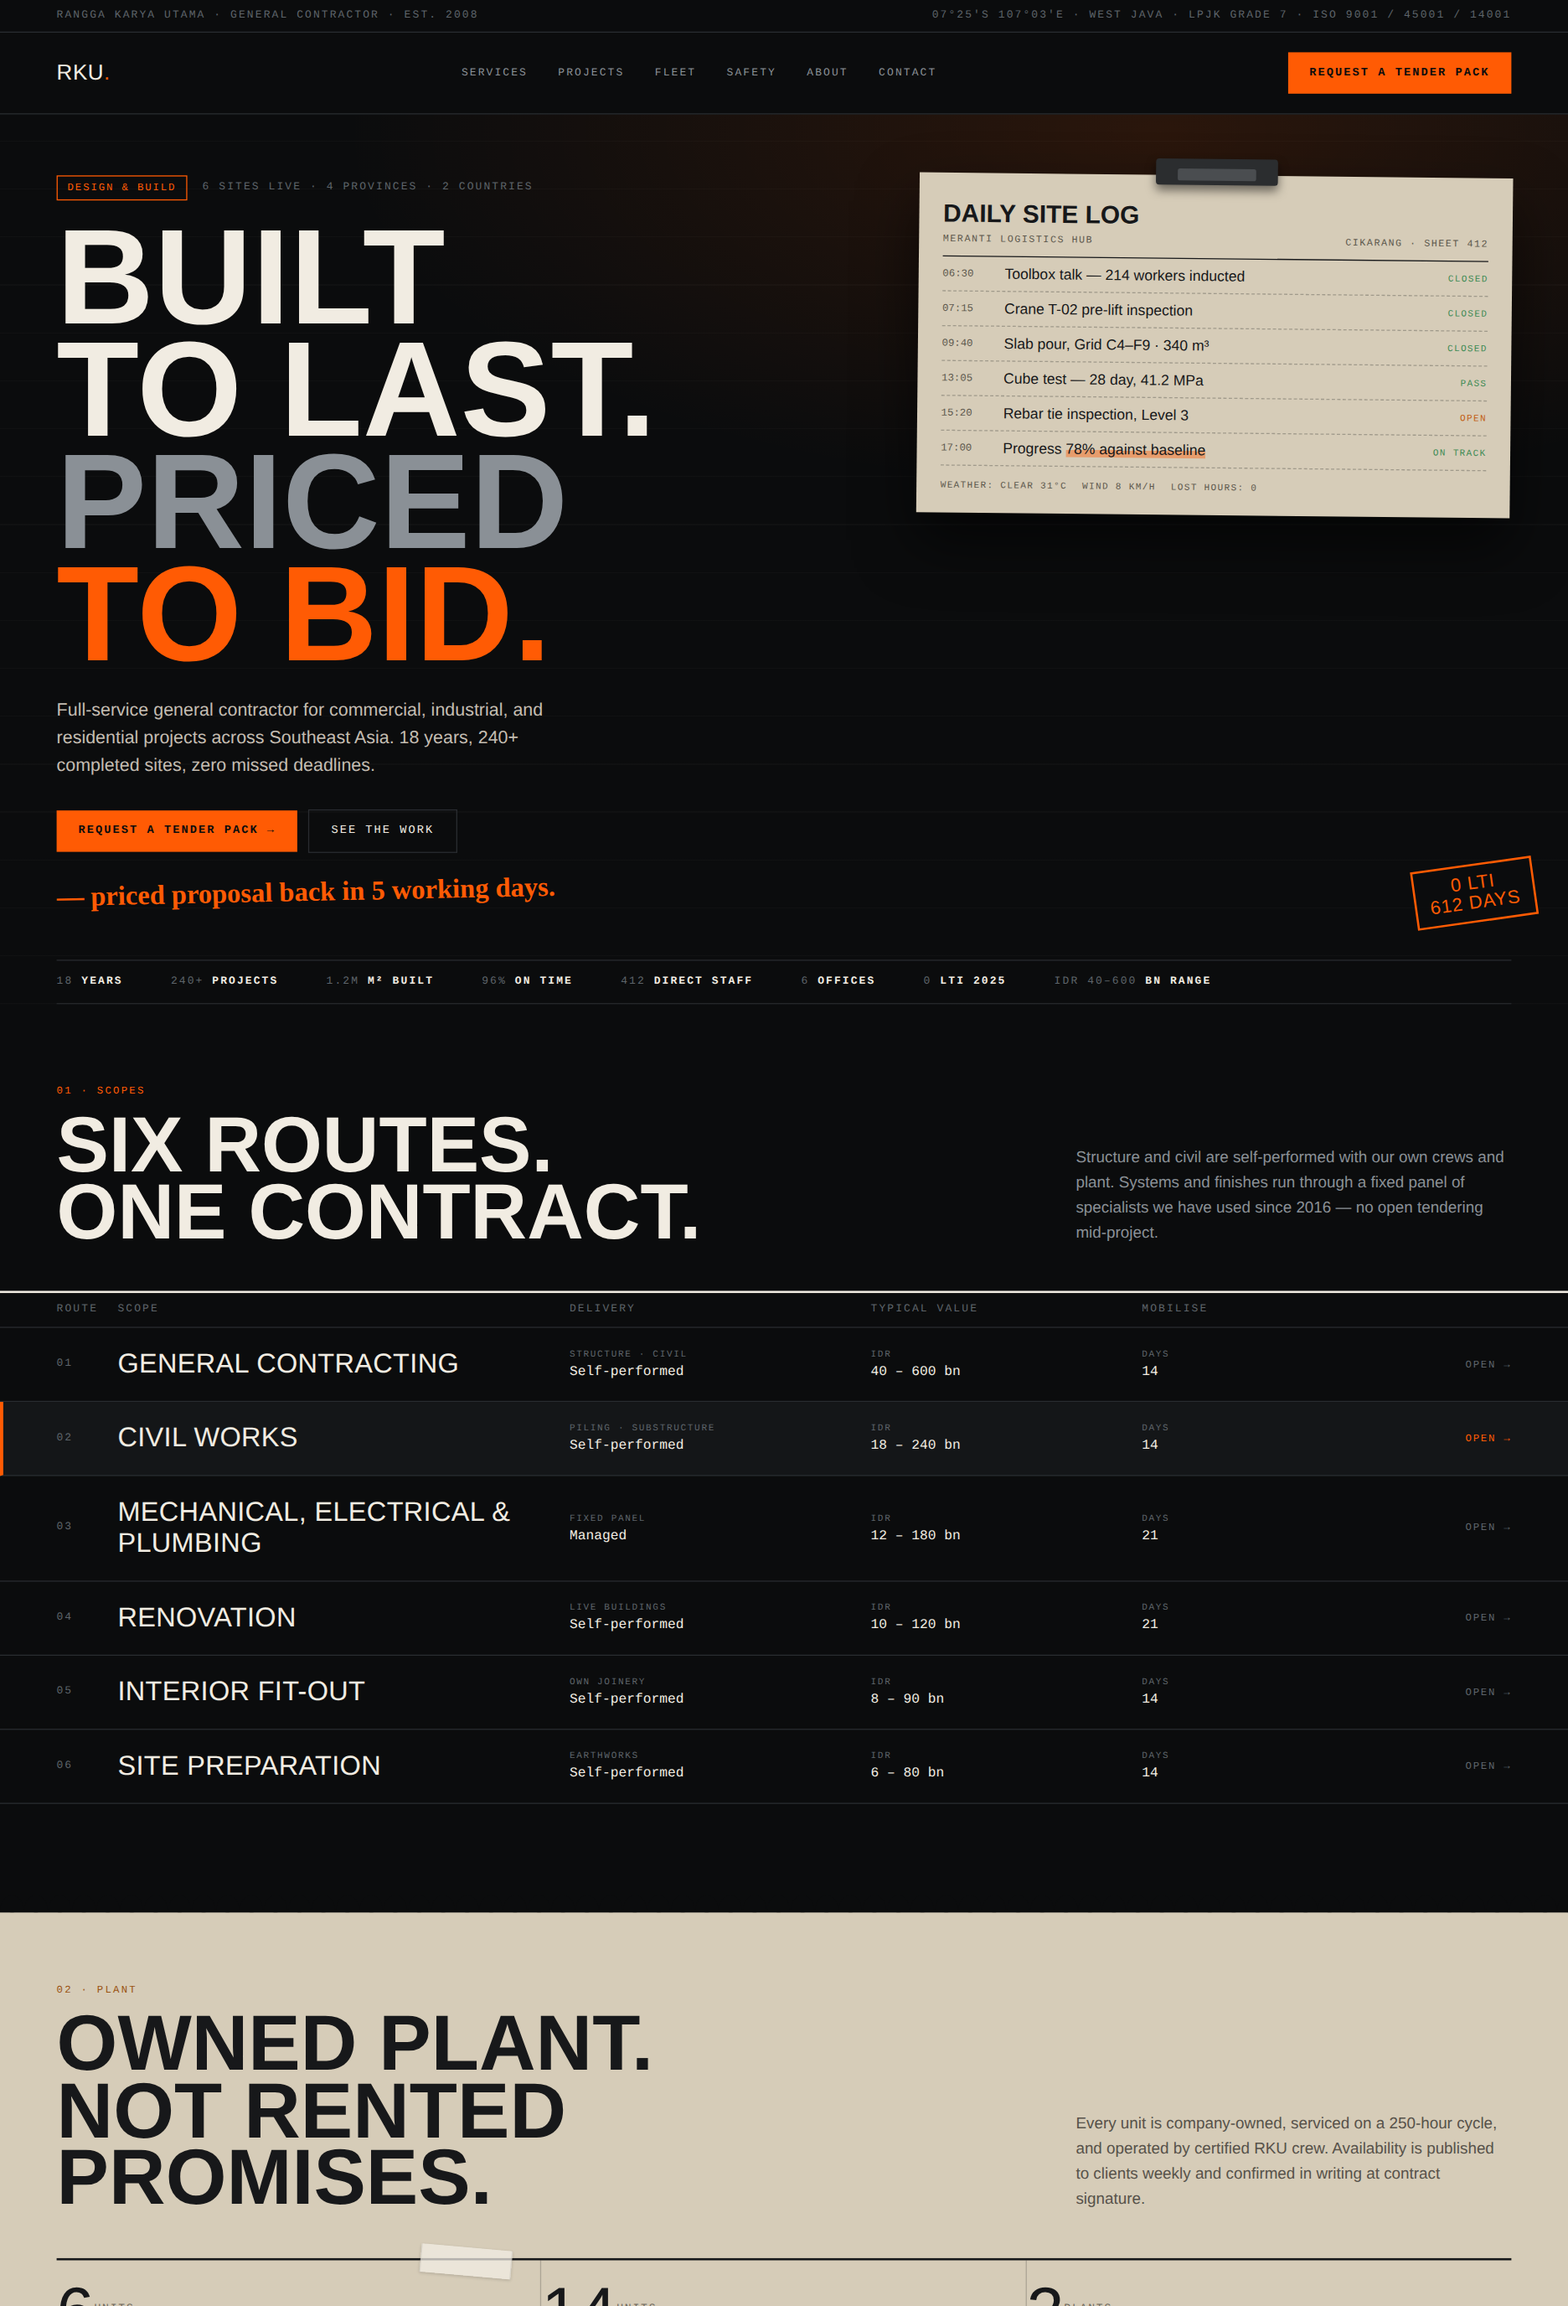
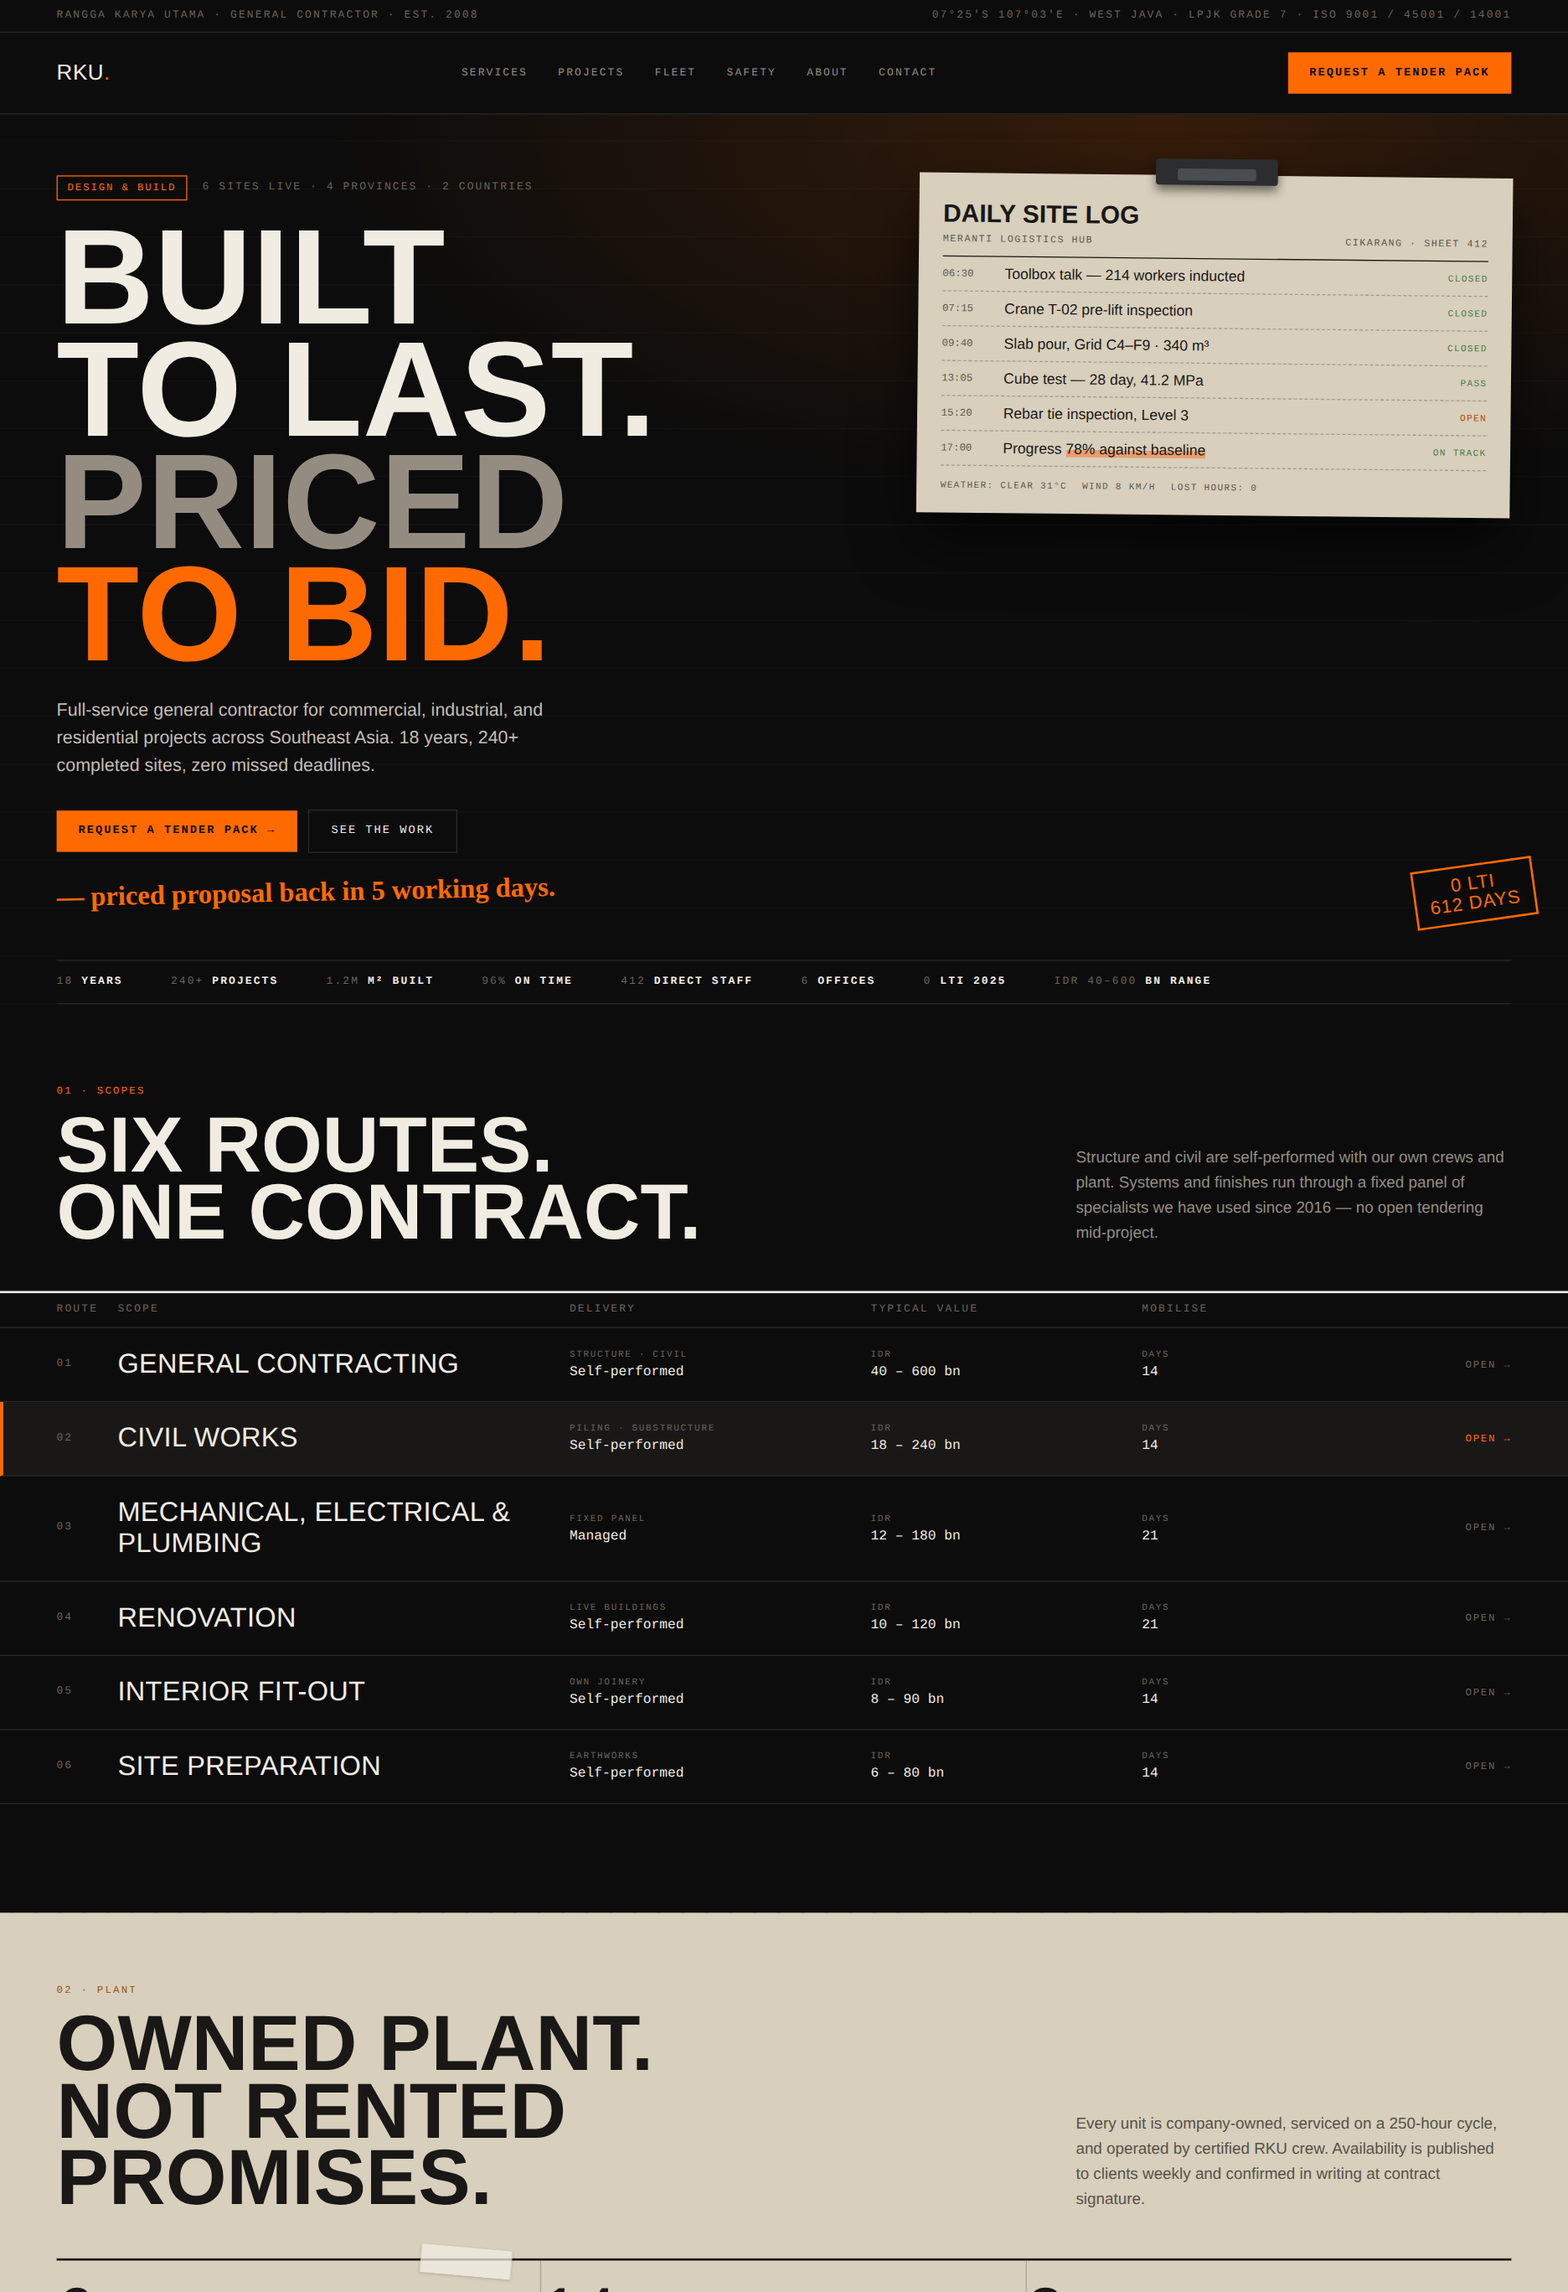
Warm palette from direction B, plus a third ground and a scoped-selector fix
- every neutral moved onto one warm scale so the dark and kraft grounds
  read as the same light source rather than two temperatures
- added a warm charcoal ground for the projects section so consecutive
  dark stretches are not identical over 6,000px
- hero ambient warmed to B's strength
- .fig span was forcing the unit inside the stat value onto its own line;
  scoped to direct children

diff --git a/design/D-home-full.html b/design/D-home-full.html
@@ -3,10 +3,11 @@
 <style>
 *{box-sizing:border-box;margin:0}
 :root{
- --ink:#0B0C0D;--panel:#141618;--panel2:#1B1E21;--line:#292C30;
- --fg:#F1ECE2;--steel:#8A9096;--dim:#5E646A;
- --kraft:#D6CCB8;--kraft2:#C7BCA4;--kink:#17181A;
- --hi:#FF5B04;--ok:#3F8B55;--warn:#C25E12;
+ /* warm scale — one light source across every ground */
+ --ink:#0C0C0C;--char:#151312;--panel:#191817;--panel2:#211F1C;--line:#2C2A26;
+ --fg:#F1ECE2;--steel:#948C81;--dim:#6A635A;
+ --kraft:#D8CFBC;--kraft2:#C9BFA8;--kink:#191817;
+ --hi:#FF6A00;--ok:#4A7C42;--warn:#B24A00;
 }
 body{width:1440px;background:var(--ink);color:var(--fg);font-family:Archivo,sans-serif;overflow-x:hidden}
 .m{font-family:"JetBrains Mono",monospace;font-size:10px;letter-spacing:.16em;text-transform:uppercase}
@@ -28,14 +29,14 @@ section{position:relative}
 .brand{font-family:Anton,sans-serif;font-size:20px;text-transform:uppercase;letter-spacing:.02em}
 .brand i{font-style:normal;color:var(--hi)}
 .nav ul{display:flex;gap:28px;list-style:none;padding:0;color:var(--steel)}
-.btn{display:inline-block;background:var(--hi);color:#0B0C0D;font-family:"JetBrains Mono",monospace;font-weight:700;font-size:10.5px;letter-spacing:.15em;text-transform:uppercase;padding:13px 20px}
+.btn{display:inline-block;background:var(--hi);color:#0C0C0C;font-family:"JetBrains Mono",monospace;font-weight:700;font-size:10.5px;letter-spacing:.15em;text-transform:uppercase;padding:13px 20px}
 .btn.o{background:transparent;color:var(--fg);border:1px solid var(--line);font-weight:500}
 .btn.k{background:var(--kink);color:var(--kraft)}
 
 /* ---------- hero ---------- */
 .hero{padding:56px 52px 0;overflow:hidden}
 .hero::before{content:"";position:absolute;inset:0;pointer-events:none;
- background:radial-gradient(90% 70% at 74% 2%,rgba(255,91,4,.13),transparent 58%),
+ background:radial-gradient(92% 72% at 74% 2%,rgba(255,106,0,.17),transparent 58%),
  repeating-linear-gradient(0deg,rgba(241,236,226,.024) 0 1px,transparent 1px 44px)}
 .hgrid{position:relative;display:grid;grid-template-columns:1fr 545px;gap:52px}
 .tagrow{display:flex;gap:14px;align-items:center;margin-bottom:20px}
@@ -58,7 +59,7 @@ h1 .g{color:var(--steel)}
 .lrow .s.w{color:var(--warn)}
 .mark{background:linear-gradient(transparent 56%,rgba(255,91,4,.42) 56%)}
 .docfoot{display:flex;gap:14px;margin-top:13px;font-family:"JetBrains Mono",monospace;font-size:8.5px;letter-spacing:.12em;text-transform:uppercase;color:#5D584D}
-.stamp{position:absolute;border:2.5px solid var(--hi);color:var(--hi);font-family:Anton,sans-serif;text-transform:uppercase;letter-spacing:.04em;padding:7px 12px;transform:rotate(-8deg);line-height:1.05;text-align:center;background:rgba(11,12,13,.82)}
+.stamp{position:absolute;border:2.5px solid var(--hi);color:var(--hi);font-family:Anton,sans-serif;text-transform:uppercase;letter-spacing:.04em;padding:7px 12px;transform:rotate(-8deg);line-height:1.05;text-align:center;background:rgba(12,12,12,.84)}
 
 /* ticker */
 .ticker{margin-top:50px;border-top:1px solid var(--line);border-bottom:1px solid var(--line);display:flex;gap:44px;padding:14px 0;color:var(--dim);white-space:nowrap}
@@ -108,8 +109,8 @@ h1 .g{color:var(--steel)}
 .fig{padding:24px 22px 24px 0;border-right:1px solid var(--line)}
 .fig:last-child{border-right:0}
 .fig b{display:block;font-family:Anton,sans-serif;font-size:66px;line-height:.85;white-space:nowrap}
-.fig span{display:block;margin-top:10px;font-family:"JetBrains Mono",monospace;font-size:9px;letter-spacing:.16em;text-transform:uppercase;color:var(--steel)}
-.fig i{display:block;margin-top:6px;font-style:normal;font-size:12px;color:var(--dim)}
+.fig > span{display:block;margin-top:10px;font-family:"JetBrains Mono",monospace;font-size:9px;letter-spacing:.16em;text-transform:uppercase;color:var(--steel)}
+.fig > i{display:block;margin-top:6px;font-style:normal;font-size:12px;color:var(--dim)}
 .bars{margin-top:38px;display:grid;grid-template-columns:140px 1fr 74px;gap:0 20px;align-items:center}
 .bars .lb{font-family:"JetBrains Mono",monospace;font-size:9.5px;letter-spacing:.13em;text-transform:uppercase;color:var(--steel);padding:9px 0}
 .trk{height:14px;background:var(--panel2);position:relative}
@@ -132,18 +133,19 @@ h1 .g{color:var(--steel)}
 /* projects */
 .projs{display:grid;grid-template-columns:1.5fr 1fr;gap:20px;margin-top:40px}
 .pcard{position:relative;border:1px solid var(--line);background:var(--panel);overflow:hidden}
-.pimg{height:330px;background:#0E1114;position:relative;overflow:hidden}
+.sec[style*="--char"]{background:var(--char)}
+.pimg{height:330px;background:#100F0E;position:relative;overflow:hidden}
 .pimg::before{content:"";position:absolute;inset:0;z-index:1;pointer-events:none;
  background-image:linear-gradient(rgba(241,236,226,.07) 1px,transparent 1px),linear-gradient(90deg,rgba(241,236,226,.07) 1px,transparent 1px);
  background-size:46px 46px}
 .pcard.sm .pimg{height:158px}
 .pimg img{width:100%;height:100%;object-fit:cover;filter:grayscale(1) invert(1) contrast(1.15) brightness(1.05);opacity:.42}
-.pimg::after{content:"";position:absolute;inset:0;z-index:2;background:linear-gradient(180deg,rgba(11,12,13,.15) 0%,transparent 34%,rgba(11,12,13,.9))}
+.pimg::after{content:"";position:absolute;inset:0;z-index:2;background:linear-gradient(180deg,rgba(12,12,12,.15) 0%,transparent 34%,rgba(21,19,18,.92))}
 .pdock{display:grid;grid-template-columns:1fr auto auto auto;gap:20px;align-items:center;padding:14px 18px;border-top:1px solid var(--line)}
 .pdock h4{font-family:Anton,sans-serif;text-transform:uppercase;font-size:21px}
 .pdock .kv{font-family:"JetBrains Mono",monospace;font-size:11px}
 .pdock .kv small{display:block;font-size:8px;letter-spacing:.15em;text-transform:uppercase;color:var(--dim);margin-bottom:3px}
-.plabel{position:absolute;z-index:3;left:14px;top:14px;font-family:"JetBrains Mono",monospace;font-size:9px;letter-spacing:.14em;text-transform:uppercase;background:var(--hi);color:#0B0C0D;padding:4px 8px}
+.plabel{position:absolute;z-index:3;left:14px;top:14px;font-family:"JetBrains Mono",monospace;font-size:9px;letter-spacing:.14em;text-transform:uppercase;background:var(--hi);color:#0C0C0C;padding:4px 8px}
 .side2{display:grid;gap:20px}
 
 /* clients */
@@ -170,7 +172,7 @@ h1 .g{color:var(--steel)}
 .docket{display:grid;grid-template-columns:1.25fr 1fr 250px;background:var(--kraft);color:var(--kink);position:relative}
 .dk{padding:34px 30px}
 .dk.mid{border-inline:2px dashed rgba(23,24,26,.35)}
-.dk.right{background:var(--hi);color:#0B0C0D;display:flex;flex-direction:column;justify-content:space-between}
+.dk.right{background:var(--hi);color:#0C0C0C;display:flex;flex-direction:column;justify-content:space-between}
 .docket h2{font-family:Anton,sans-serif;text-transform:uppercase;font-size:56px;line-height:.86}
 .field{display:grid;grid-template-columns:1fr 1fr;gap:14px 18px;margin-top:18px}
 .field div span{font-family:"JetBrains Mono",monospace;font-size:8.5px;letter-spacing:.15em;text-transform:uppercase;color:#6C6659;display:block}
@@ -280,7 +282,7 @@ h1 .g{color:var(--steel)}
     <div class="figs">
       <div class="fig"><b class="hi">0.18</b><span>LTIR 2025</span><i>Industry average 1.42</i></div>
       <div class="fig"><b>0.94</b><span>TRIR 2025</span><i>Recordable per 1M hours</i></div>
-      <div class="fig"><b>1.94<span style="font-size:32px;color:var(--steel)">M</span></b><span>Work hours 2025</span><i>Own staff + subcontractors</i></div>
+      <div class="fig"><b>1.94<span style="font-size:34px;color:var(--steel)">M</span></b><span>Work hours 2025</span><i>Own staff + subcontractors</i></div>
       <div class="fig"><b>612</b><span>Days since LTI</span><i>As at 24 Aug 2026</i></div>
     </div>
     <div style="display:grid;grid-template-columns:1fr 1fr;gap:52px;margin-top:8px">
@@ -305,7 +307,7 @@ h1 .g{color:var(--steel)}
   </div>
 </section>
 
-<section class="sec" style="padding-top:0">
+<section class="sec" style="padding-top:0;background:var(--char)">
   <div class="shell">
     <div class="sh">
       <div><span class="eyebrow">04 · Selected work</span><h2>Recent hand-overs.</h2></div>
